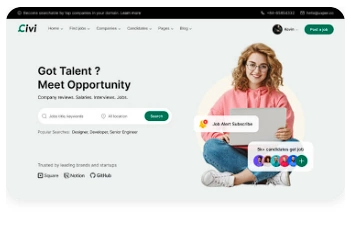
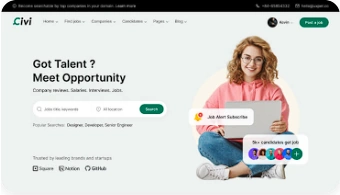
responsive added

diff --git a/index.html b/index.html
@@ -7,12 +7,18 @@
     <link rel="stylesheet" href="./css/body.css">
     <link rel="stylesheet" href="./css/header.css">
     <link rel="stylesheet" href="./css/main.css">
+    <link rel="stylesheet" href="./css/main_responsive.css">
     <link rel="stylesheet" href="./css/tri_layout.css">
     <link rel="stylesheet" href="./css/buttons.css">
 
 </head>
 <body>
     <header class="header">
+        <a class="menu" href="#"><svg stroke="currentColor" fill="currentColor" stroke-width="0" viewBox="0 0 512 512" height="40px" width="40px" xmlns="http://www.w3.org/2000/svg">
+            <path d="M64 384h384v-42.666H64V384zm0-106.666h384v-42.667H64v42.667zM64 128v42.665h384V128H64z">
+            </path>
+        </svg>
+        </a>
         <img src="#" alt="CiviLogo" />
         <div class="linklist">
             <a class="headlink" href="#">Demos</a>
@@ -42,18 +48,23 @@
         </section>
         <section class="triCont">
             <div class="contbound">
-                <div class="cont"><img src="./imagine.webp" alt="image" />
-                <p>Job - Home 1</p></div>
-                <div class="cont"><img src="./imagine.webp" alt="image" />
-                <p>Job - Home 1</p></div>
-                <div class="cont"><img src="./imagine.webp" alt="image" />
-                <p>Job - Home 1</p></div>
-                <div class="cont"><img src="./imagine.webp" alt="image" />
-                <p>Job - Home 1</p></div>
-                <div class="cont"><img src="./imagine.webp" alt="image" />
-                <p>Job - Home 1</p></div>
-                <div class="cont"><img src="./imagine.webp" alt="image" />
-                <p>Job - Home 1</p></div>
+                <a href="#" class="cont"><img class="imgbox" src="./imagine.webp" alt="image" />
+                <p>Job - Home 1</p></a>
+
+                <a href="#" class="cont"><img class="imgbox" src="./imagine.webp" alt="image" />
+                <p>Job - Home 1</p></a>
+
+                <a href="#" class="cont"><img class="imgbox" src="./imagine.webp" alt="image" />
+                <p>Job - Home 1</p></a>
+
+                <a href="#" class="cont"><img class="imgbox" src="./imagine.webp" alt="image" />
+                <p>Job - Home 1</p></a>
+
+                <a href="#" class="cont"><img class="imgbox" src="./imagine.webp" alt="image" />
+                <p>Job - Home 1</p></a>
+
+                <a href="#" class="cont"><img class="imgbox" src="./imagine.webp" alt="image" />
+                <p>Job - Home 1</p></a>
             </div>
         </section>
     </main>

diff --git a/css/main_responsive.css b/css/main_responsive.css
@@ -1,0 +1,34 @@
+@media (max-width: 1100px) {
+    .boxL,
+    .boxR {
+        min-width: 400px;
+        max-width: 600;
+    }
+}
+@media (max-width: 900px) {
+    .boxL,
+    .boxR {
+        min-width: 0;
+        max-width: 100%;
+    }
+    main section.frontSect {
+        padding: 0 50px;
+    }
+}
+@media (max-width: 700px) {
+    .title {
+        max-width: 100%;
+        min-width: 0%;
+    }
+}
+@media (max-width: 500px) {
+    .boxL,
+    .boxR {
+        min-width: 0;
+        max-width: 100%;
+    }
+    main section.frontSect {
+        padding: 0 10px;
+        flex-wrap: wrap;
+    }
+}

diff --git a/css/tri_layout.css b/css/tri_layout.css
@@ -11,9 +11,11 @@
     align-items: center;
     display: flex;
     flex-wrap: wrap;
+
     width: 70%;
 }
 .cont {
+    margin-top: 25px;
     position: relative;
     display: flex;
     flex-direction: column;
@@ -21,8 +23,16 @@
     gap: 15px;
     overflow: hidden;
 }
-img:hover {
-    transition: all 1s ease-in-out;
-    position: relative;
-    bottom: 10px;
+.imgbox {
+    border-radius: 5%;
+    box-shadow: 0 5px 15px 0px #0000005d;
 }
+a.cont:hover {
+    img {
+    position: relative;
+    transition: all 0.3s;
+    transform: translatey(-5px);
+    }
+}
+
+

diff --git a/css/main.css b/css/main.css
@@ -15,7 +15,7 @@ main section.middleSect {
     margin-bottom: 50px;
     align-content: center;
     justify-content: center;
-    flex-wrap: wrap;
+
 }
 .boxL {
     position: relative;
@@ -30,10 +30,10 @@ main section.middleSect {
     min-width: 500px;
 }
 .title {
-    width: 33%;
+    max-width: 600px;
+    min-width: 600px;
     display: flex;
     flex-wrap: wrap;
-    align-items: center;
     justify-content: center;
     text-align: center;
     gap: 10px;

diff --git a/css/header.css b/css/header.css
@@ -13,3 +13,23 @@
 .headlink {
     text-decoration: none;
 }
+.menu {
+    color: white;
+    display: none;
+}
+@media (max-width: 950px) {
+    .linklist {
+        background-color: red;
+        display: none;
+    }
+    .menu {
+        display: inline-block;
+    }
+}
+@media (max-width: 500px) {
+    .header {
+        margin: 0;
+        min-width: 300px;
+    }
+}
+
